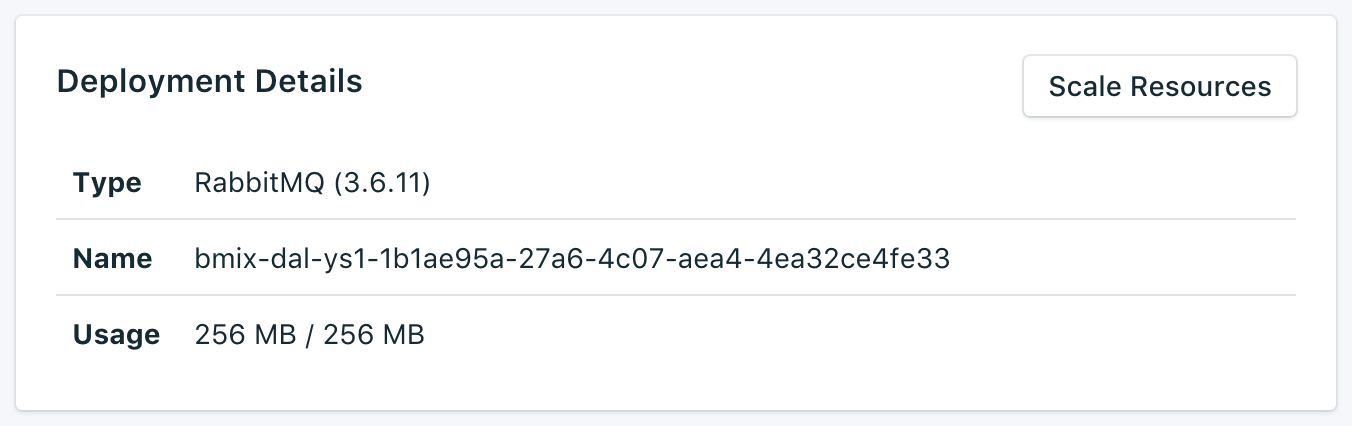
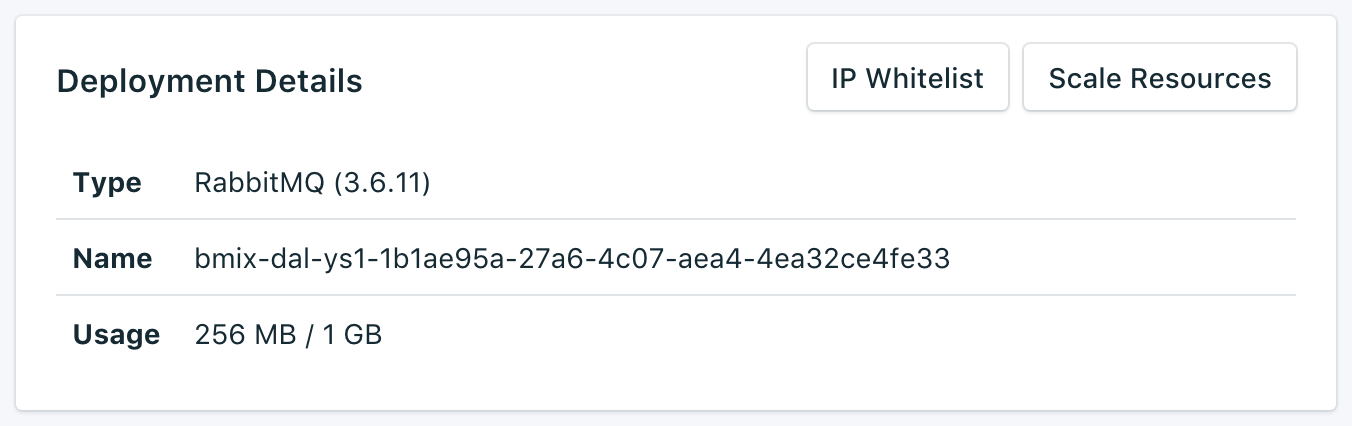
Oct 17 updates

Changed region(s): [[0.5902, 0.0915, 0.963, 0.2746], [0.5902, 0.1526, 0.7456, 0.2136], [0.2175, 0.7629, 0.3107, 0.8239]]

diff --git a/dashboard-whitelists.md b/dashboard-whitelists.md
@@ -1,0 +1,36 @@
+---
+
+Copyright:
+  Years: 2017
+lastupdated: "2017-10-16"
+---
+
+{:new_window: target="_blank"}
+{:shortdesc: .shortdesc}
+{:screen: .screen}
+{:codeblock: .codeblock}
+{:pre: .pre}
+
+# Whitelists
+
+If you want to restrict access to your databases, you can whitelist specific ip addresses or ranges of ip addresses on your service. When there are no IP addresses in the whitelist, the whitelist is disabled and the deployment will accept connections from any system on the internet.
+
+![Whitelisting IPs](./images/rabbitmq-whitelist-show.png "The whitelist fields.")
+
+## IP Addresses
+The *IP* field can take a single complete IPv4 address or IPv6 address with or without a netmask. Without a netmask, incoming connections must come from exactly that IP address. 
+
+Note that although the IP entry allows for IPv6, no Compose deployments are currently available to IPv6 networking and so these addresses cannot be filtered on.
+
+## Netmasks
+To allow a connection from a specified range of IP addresses, use a netmask. The IP address must be fully specified when using a netmask. That means entering, for example, 192.168.1.0/24 rather than 192.168.1/24.
+
+## Description
+The *Description* can be any user-significant text for identifying the whitelist entry - a customer name, project identifier or employee number, for example. The description field is required.
+
+## Compose Services
+Whitelist entries are automatically added to Compose's servers to allow them to connect.
+
+## Removal
+To remove an IP address or netmask from the Whitelist, click the *Remove* entry displayed next to it.
+When all entries on the whitelist are removed, the whitelist will be disabled and all IP addresses will be accepted by the TCP access portals.

diff --git a/dashboard-backups.md b/dashboard-backups.md
@@ -2,7 +2,7 @@
 
 copyright:
   years: 2017
-lastupdated: "2017-07-13"
+lastupdated: "2017-10-16"
 ---
 
 {:new_window: target="_blank"}
@@ -21,6 +21,10 @@ You can create and download backups from the *Manage* page of your service dashb
 Daily backups of your database are automatically scheduled. To view your existing backups, navigate to the *Manage* page of your service dashboard. 
 
 ![Backups](./images/rabbitmq-backups-show.png "A list of backups in the service dashboard")
+
+Click on the corresponding row to expand the options for any available backup.
+
+![Backup Options](./images/rabbitmq-backups-options.png "Options for a backup.") 
 
 ## Creating a backup on demand
 
@@ -52,3 +56,7 @@ To import the JSON backup file, you can:
 curl -i -u guest:guest -H "content-type:application/json" -X POST --data @<path_to_your_rabbitmq_backup> http://localhost:15672/api/definitions
 ```
 * use the command `rabbitmqadmin import <your_rabbitmq_backup>`.
+
+## Restoring a backup
+
+To restore a backup to a new service instance, follow the steps to view existing backups, then click in the corresponding row to expand the options for the backup you want to download. Click on the **Restore** button. A message is displayed to let you know that a restore has been initiated. The new service instance will automatically be named "rabbitmq-restore-[timestamp]", and appears on your dashboard when provisioning starts.

diff --git a/index.md b/index.md
@@ -2,7 +2,7 @@
 
 copyright:
   years: 2016,2017
-lastupdated: "2017-05-24"
+lastupdated: "2017-10-16"
 ---
 
 {:new_window: target="_blank"}
@@ -29,7 +29,7 @@ When you provision your {{site.data.keyword.composeForRabbitMQ}} instance you ca
 
 ## Managing Compose for RabbitMQ
 
-You can manage your service from the service dashboard. Here you can find information about your Bluemix Compose database and how to connect to it. You can also manage your backups from the dashboard and allocated more resources for your service. For more information, see [Service Overview](./dashboard-overview.html), [Backups](./dashboard-backups.html), and [Scaling Resources](./dashboard-scaling-resources.html).
+You can manage your service from the service dashboard. Here you can find information about your Bluemix Compose database and how to connect to it. You can also manage your backups, allocate more resources for your service, and use whitelists to restrict access to your databases. For more information, see [Service Overview](./dashboard-overview.html), [Backups](./dashboard-backups.html), [Scaling Resources](./dashboard-scaling-resources.html), and [Whitelists](./dashboard-whitelists.html).
 
 ## Connecting to Compose for RabbitMQ
 
